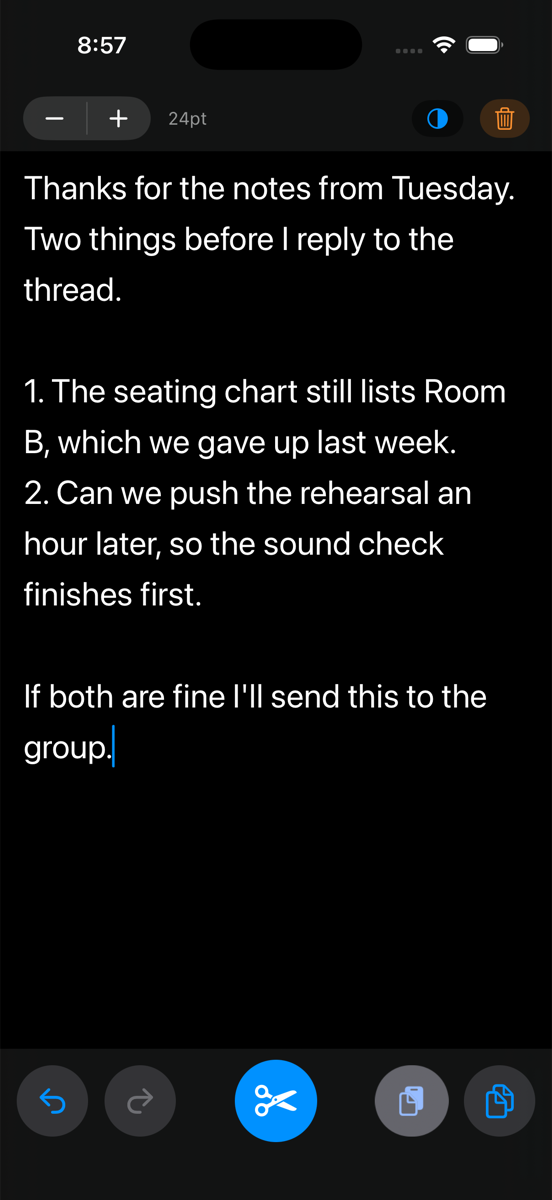
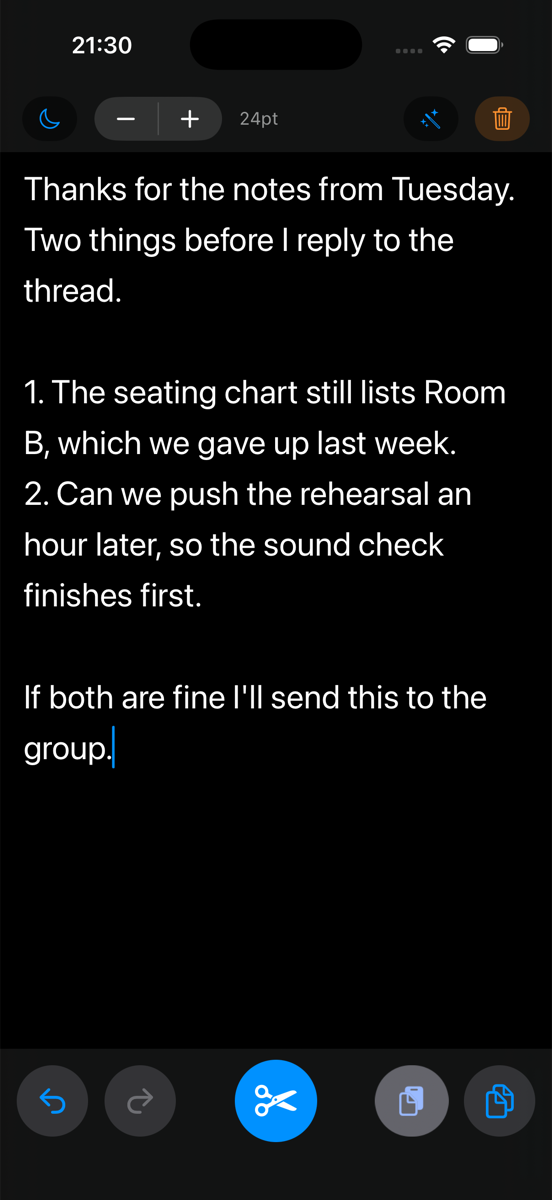
Document the Writing Tools button and reshoot the screenshots
The top bar is now split by what a control does to the text: appearance
and size on the left, Writing Tools and Clear on the right. All six
screenshots were retaken on the current layout. Line count updated to
535 across 5 files.

diff --git a/README.md b/README.md
@@ -78,7 +78,8 @@ Step 3 is undoable. If you clear the buffer by accident, **Undo** brings the who
 - **Line spacing that scales with text size** — Leading is set to 35% of the font size, so a 60pt buffer stays as readable as a 14pt one.
 - **Light, dark, or system appearance** — A menu in the top bar overrides the system setting per app, so you can keep a light writing surface on a phone that is otherwise in dark mode, or the reverse. The choice is stored in `UserDefaults` under `appearance` and applied with `.preferredColorScheme`, which propagates through the `UITextView` and `UIPasteControl` bridges as well.
 - **Matching app icon variants** — The icon ships in light, dark, and tinted artwork, so the Home Screen icon follows the system appearance instead of showing a black tile on a light wallpaper.
-- **Thumb-zone button layout** — Frequent actions (Undo, Redo, Copy & Clear, Paste, Copy) sit in the bottom bar where a thumb reaches; destructive Clear sits in the top bar where it is hard to hit by accident.
+- **A shortcut to Writing Tools** — On iOS 18.2 and later, a wand button in the top bar selects the whole buffer and opens Apple's Writing Tools, so proofreading or rewriting is one tap instead of select-all → long-press → menu. What it does there — proofread, rewrite, summarize — is chosen in Apple's own interface each time. The result comes back through the standard `UITextView` path, so Undo reverses it.
+- **Thumb-zone button layout** — Frequent actions (Undo, Redo, Copy & Clear, Paste, Copy) sit in the bottom bar where a thumb reaches. The top bar is split by what a control can damage: display settings that never touch the text (appearance, text size) on the left, actions that rewrite or destroy it (Writing Tools, Clear) on the right.
 - **System paste button** — Paste uses `UIPasteControl`, the OS-provided control, styled as a circle to match the other buttons.
 - **Interactive keyboard dismissal** — Dragging the text down pulls the keyboard down with your finger.
 - **Smart quotes and dashes disabled** — Typed quotes and hyphens stay as typed, which matters when the text is going into code, a URL, or a prompt.
@@ -112,7 +113,7 @@ Step 3 is undoable. If you clear the buffer by accident, **Undo** brings the who
 
 - **iPhone users who draft messages and prompts before sending them** — you compose in a comfortable full-screen buffer, then paste into the chat app, LLM prompt box, or web form.
 - **People with reading-size needs on a phone** — 60pt text with proportional line spacing makes the buffer usable when the system's default editor text is too small to proofread.
-- **Swift developers who want a compact SwiftUI + UIKit interop reference** — 496 lines across 5 files showing `UIViewRepresentable` wrapping of `UITextView`, undo-stack management, and `UIPasteControl` integration.
+- **Swift developers who want a compact SwiftUI + UIKit interop reference** — 535 lines across 5 files showing `UIViewRepresentable` wrapping of `UITextView`, undo-stack management, and `UIPasteControl` integration.
 - **People who compose in apps with custom input views** — messaging apps that reimplement the text field, such as LINE, each behave a little differently; drafting in EathWrit gives you one consistent editing surface no matter where the text ends up.
 - **Anyone who dislikes cleaning up throwaway notes** — the app is designed so that no artifact is ever created that you have to delete later.
 
@@ -121,7 +122,8 @@ Step 3 is undoable. If you clear the buffer by accident, **Undo** brings the who
 | Location | Button | Purpose | Notes |
 |---|---|---|---|
 | Top bar | Stepper `−` / `+` | Change text size | 14–60pt, 4pt steps, default 24pt |
-| Top bar | ◐ Appearance | Choose System, Light, or Dark | Icon reflects the current choice; persists across launches |
+| Top bar | ◐ Appearance | Choose System, Light, or Dark | Leftmost; icon reflects the current choice and persists across launches |
+| Top bar | ✨ Writing Tools | Select the whole buffer and open Apple's Writing Tools | iOS 18.2+ only — the button is absent on earlier versions. Disabled when empty; undoable |
 | Top bar | 🗑 Clear | Empty the buffer without copying | Disabled when empty; undoable |
 | Bottom bar | ↺ Undo | Reverse the last edit or clear | Disabled when the undo stack is empty |
 | Bottom bar | ↻ Redo | Reapply the last undone edit | Disabled when the redo stack is empty |
@@ -131,7 +133,7 @@ Step 3 is undoable. If you clear the buffer by accident, **Undo** brings the who
 
 ## Requirements
 
-- **iOS 17.0 or later** — the code uses the two-parameter `onChange(of:)` signature and `Task.sleep(for:)`.
+- **iOS 17.0 or later** — the code uses the two-parameter `onChange(of:)` signature and `Task.sleep(for:)`. On iOS 18.2 and later one extra button appears in the top bar, the Writing Tools shortcut; everything else is identical.
 - **iPhone** — `TARGETED_DEVICE_FAMILY` is set to iPhone only, and the app is locked to portrait orientation.
 - **Xcode with a signing identity** — the project is configured with a development team and bundle identifier `com.masatora.eathwrit`; change both to your own before building.
 - **No third-party dependencies** — the app imports only SwiftUI, UIKit, and Foundation. There is no package manifest, no CocoaPods, and no Carthage.
@@ -195,6 +197,10 @@ No. The Xcode target is set to iPhone only and locked to portrait orientation. I
 
 The stepper ranges from 14pt to 60pt in 4pt steps, with 24pt as the default. Line spacing is computed as 35% of the font size, so the 60pt setting stays readable rather than becoming a wall of tightly packed large text.
 
+### Does EathWrit have AI features?
+
+Not of its own. On iOS 18.2 and later there is a wand button that selects the whole buffer and opens Apple's Writing Tools — the same panel you would reach by selecting all the text and digging through the edit menu. EathWrit only saves those steps; it does not send anything anywhere, has no prompt of its own, and never rewrites the text on its own initiative. Whatever Writing Tools returns lands on the normal undo stack, so Undo puts your original wording back.
+
 ### Can I use EathWrit in light mode while my phone is in dark mode?
 
 Yes. The top bar has an appearance menu with System, Light, and Dark. Choosing Light or Dark overrides the system setting for EathWrit only, and the choice persists across launches. Leaving it on System follows the phone. The app icon also ships in light, dark, and tinted variants, so the Home Screen icon follows the system appearance regardless of what you pick inside the app.
@@ -213,7 +219,7 @@ The buttons are icon-only and have English accessibility labels (Undo, Redo, Cop
 
 ### Can I change the button layout or add features?
 
-Yes, and that is the intended way to use this repository. The whole app is 496 lines across 5 Swift files: [`EathWritApp.swift`](EathWrit/EathWritApp.swift) (entry point), [`EditorView.swift`](EathWrit/EditorView.swift) (layout, bars, toast), [`EditorTextView.swift`](EathWrit/EditorTextView.swift) (the `UITextView` wrapper and undo handling), [`Appearance.swift`](EathWrit/Appearance.swift) (the light/dark/system enum), and [`Clipboard.swift`](EathWrit/Clipboard.swift) (clipboard and haptics). Button sizes, the font range, and the step size are constants at the top of `EditorView`.
+Yes, and that is the intended way to use this repository. The whole app is 535 lines across 5 Swift files: [`EathWritApp.swift`](EathWrit/EathWritApp.swift) (entry point), [`EditorView.swift`](EathWrit/EditorView.swift) (layout, bars, toast), [`EditorTextView.swift`](EathWrit/EditorTextView.swift) (the `UITextView` wrapper and undo handling), [`Appearance.swift`](EathWrit/Appearance.swift) (the light/dark/system enum), and [`Clipboard.swift`](EathWrit/Clipboard.swift) (clipboard and haptics). Button sizes, the font range, and the step size are constants at the top of `EditorView`.
 
 ## Limitations
 
@@ -223,12 +229,13 @@ Yes, and that is the intended way to use this repository. The whole app is 496 l
 - **No iPad, Mac, or landscape support** — iPhone portrait only.
 - **Not on the App Store** — you must build and sign it yourself in Xcode.
 - **No plain-text export** — text leaves the app through the clipboard, not through a share sheet or file.
+- **Writing Tools needs iOS 18.2 or later** — on iOS 17.0 through 18.1 the wand button simply does not appear. Behavior on devices without Apple Intelligence has not been verified.
 - **No automated tests** — the project contains no test target.
 - **Undo history is not persisted** — the buffer survives relaunch, but the undo stack does not.
 
 ## Fork It and Make Your Own
 
-EathWrit is not looking for contributors. It is 496 lines in 5 files — small enough that a coding agent can read all of it in one pass — so the better move is to fork or clone it and shape it into the tool *you* want.
+EathWrit is not looking for contributors. It is 535 lines in 5 files — small enough that a coding agent can read all of it in one pass — so the better move is to fork or clone it and shape it into the tool *you* want.
 
 Reasonable one-session modifications, each contained in a single file:
 
